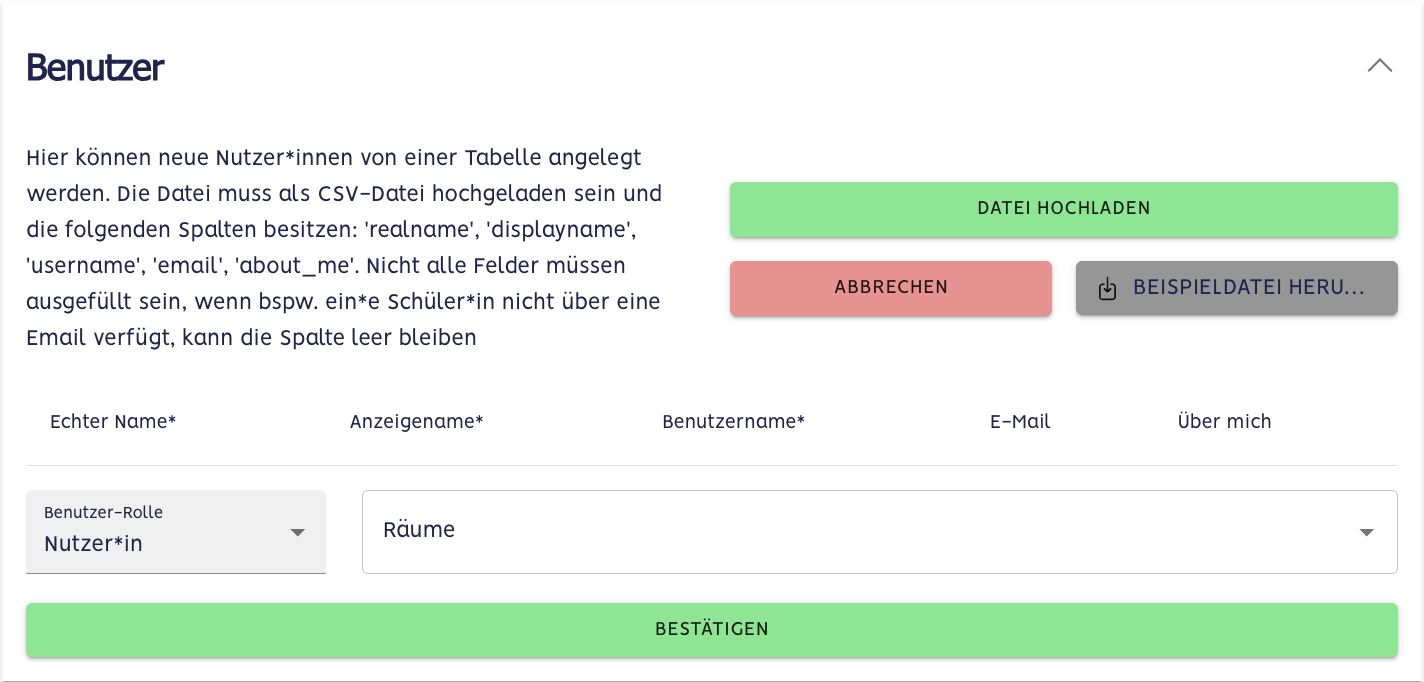
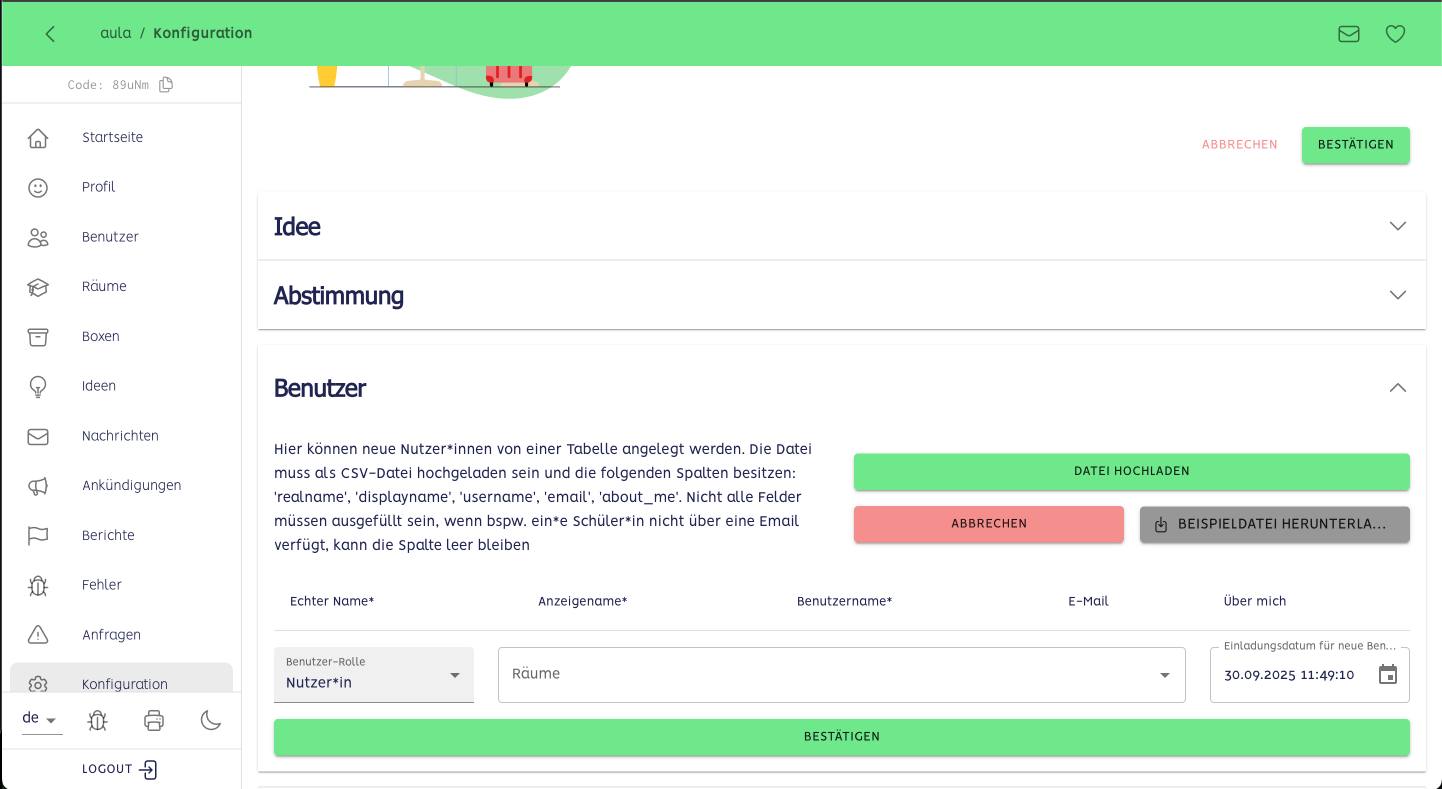
changed csv import

diff --git a/docs/Konfigurationen.md b/docs/Konfigurationen.md
@@ -77,8 +77,8 @@ Es zeigt an, wie viele Stimmen (in %) für eine Idee erforderlich sind –
 
 **Dropdowns:**
 
-- Raum auswählen
-- Benutzer\*innenrolle festlegen
+- Räume auswählen
+- Benutzer-Rolle festlegen
 
 **Benötigte CSV-Felder:**
 
@@ -90,11 +90,19 @@ Es zeigt an, wie viele Stimmen (in %) für eine Idee erforderlich sind –
 
 ### Benutzer\*innen importieren
 
-1. Beispieldatei herunterladen.
-2. CSV-Datei hochladen.
-3. Raum + Benutzerrolle auswählen.
-4. **Bestätigen**
-5. Optional: **Abbrechen**
+1. Klicke in der Menüleiste **"Konfigurationen"**.
+2. Vermutlich musst du in der Ansicht etwas herrunterscrollen, dann siehst du einen Button mit **"Benutzer"**.
+3. Klicke im ausgeklappten Menü auf **Datei-Upload**.
+4. Wähle die CSV-Datei (Format: UTF-8) aus, die der oben genannten Formatvorlage entspricht.
+5. Nach der Auswahl der Datei siehst du eine Vorschau aller Benutzer\*innen, die mit dieser Datei importiert werden.
+6. Wähle eine Benutzerrolle aus, die auf alle Benutzer\*innen in der Vorschau angewendet wird.
+7. Wähle einen oder mehrer Räume aus, in dem die Benutzer\*innen mit dieser Rolle hinzugefügt werden sollen.
+8. _Optional:_ Kannst du einen bestimmten Zeitpunkt terminieren, wann die Onboarding-Email verschickt werden soll. Klicke dazu auf das Feld **"Einladungsdarum für neue Benutzer"**
+9. Klicke auf **Bestätigen**.
+10. _Optional:_ Überprüfe im Benutzermenü, ob der Import erfolgreich war.
+
+<img src="/screenshots/csv_importer.png" alt="CSV-Import" style="height: 300px;">
+
 
 ---
 
@@ -140,9 +148,6 @@ Ermöglicht das Planen von Aktionen für ein zukünftiges Datum – z. B. das Sp
 3. Aktion auswählen:
    - **System:** Status ändern oder löschen
      - Status: _aktiv_, _inaktiv_, _Wochenende_, _Urlaub_, _Feiertag_
-   - **Benutzer:** Login, Logout, Status ändern
-     - Status: _aktiv_, _inaktiv_, _gesperrt_
-   - **Gruppe:** Benutzer hinzufügen/entfernen
 4. Datum wählen
 5. **Bestätigen**
 
@@ -191,7 +196,7 @@ Wir hosten die Daten und erstellen täglich automatisierte Datenbackups. Diese B
 
 👉 Wenn Sie den Zustand Ihres Systems auf einen früheren Zeitpunkt zurücksetzen möchten, schreiben Sie uns bitte an [support@aula.de](mailto:support@aula.de). Wir können die Speicherung von Backups nicht länger als 30 Tage garantieren.
 
---- -->
+-->
 
 ## ⚠ Gefahrenbereich (Instanz löschen) ⚠
 

diff --git a/docs/loslegen.md b/docs/loslegen.md
@@ -86,12 +86,13 @@ Zu Anfang kannst du den echten Namen eines Benutzenden auch in die ersten drei S
 1. Klicke in der Menüleiste **"Konfigurationen"**.
 2. Vermutlich musst du in der Ansicht etwas herrunterscrollen, dann siehst du einen Button mit **"Benutzer"**.
 3. Klicke im ausgeklappten Menü auf **Datei-Upload**.
-4. Wähle die CSV-Datei aus, die der oben genannten Formatvorlage entspricht.
+4. Wähle die CSV-Datei (Format: UTF-8) aus, die der oben genannten Formatvorlage entspricht.
 5. Nach der Auswahl der Datei siehst du eine Vorschau aller Benutzer\*innen, die mit dieser Datei importiert werden.
 6. Wähle eine Benutzerrolle aus, die auf alle Benutzer\*innen in der Vorschau angewendet wird.
-7. Wähle einen Raum aus, in dem die Benutzer\*innen mit dieser Rolle hinzugefügt werden sollen.
-8. Klicke auf **Bestätigen**.
-9. _Optional:_ Überprüfe im Benutzermenü, ob der Import erfolgreich war.
+7. Wähle einen oder mehrer Räume aus, in dem die Benutzer\*innen mit dieser Rolle hinzugefügt werden sollen.
+8. _Optional:_ Kannst du einen bestimmten Zeitpunkt terminieren, wann die Onboarding-Email verschickt werden soll. Klicke dazu auf das Feld **"Einladungsdarum für neue Benutzer"**
+9. Klicke auf **Bestätigen**.
+10. _Optional:_ Überprüfe im Benutzermenü, ob der Import erfolgreich war.
 
 <img src="/screenshots/csv_importer.png" alt="CSV-Import" style="height: 300px;">
 
